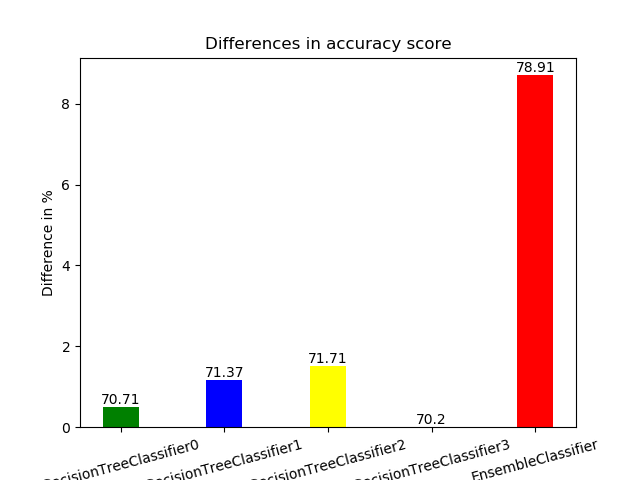
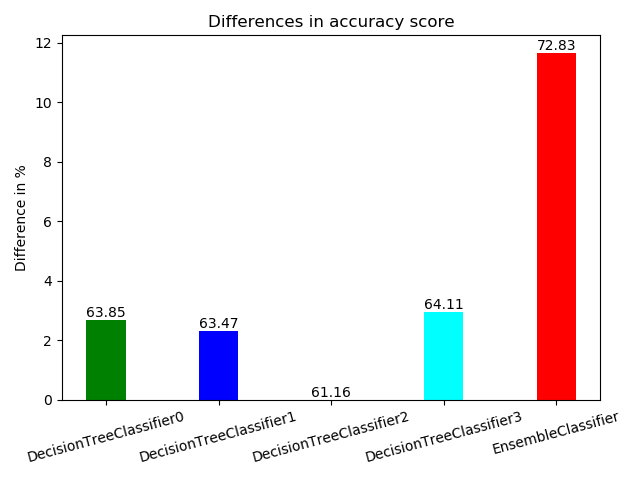
Added clean registry from master classifier

diff --git a/MasterClassifier.py b/MasterClassifier.py
@@ -31,5 +31,10 @@ class MasterClassifier(Agent):
             final_prediction.append(round((p1+p2+p3+p4)/4))
         self.metrics['EnsembleClassifier'] = r2_score(self.y_true, final_prediction)
 
+    def clean_cache(self):
+        self.metrics = dict()
+        self.y_predicted = dict()
+        self.log_info("Cleaned cache on Master Agent")
+
     def debug(self):
         name = self.name

diff --git a/DataVisualizer.py b/DataVisualizer.py
@@ -30,4 +30,5 @@ def print_metrics(metrics, iterator):
     plt.ylabel('Difference in %')
     plt.title('Differences in accuracy score')
     plt.xticks(ind, (metrics.keys()), rotation=15)
+    plt.tight_layout()
     plt.savefig(f'figures/metric{iterator}.png')

diff --git a/main.py b/main.py
@@ -69,6 +69,7 @@ if __name__ == '__main__':
         metrics = master_agent.get_metrics()
         DataVisualizer.print_metrics(metrics, iterator)
 
+        master_agent.clean_cache()
         master_agent.debug()
         iterator += 1
     ns.shutdown()
